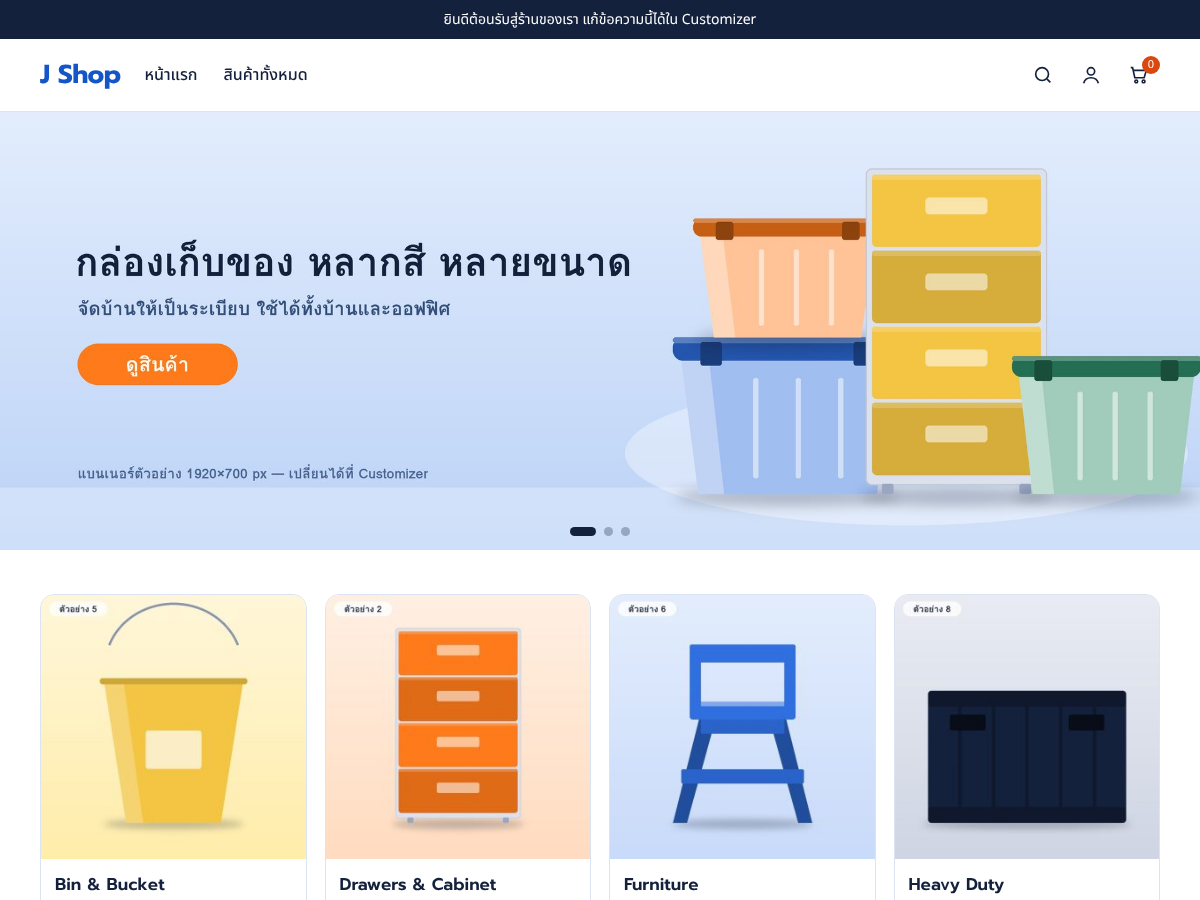
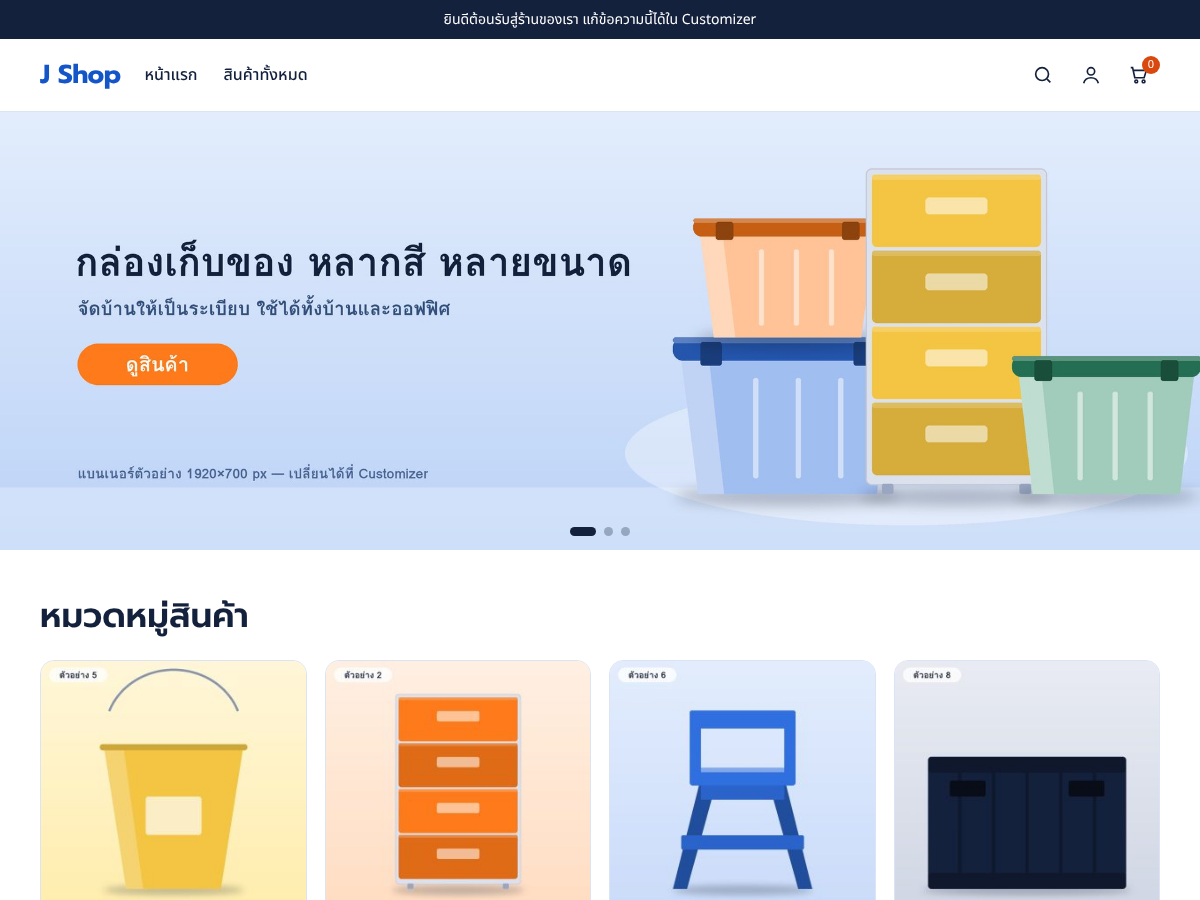
Add an editable heading above the home page category grid; version 3.0.6
Claude-Session: https://claude.ai/code/session_01AC5PZgD2Aq4ZWdHK6gSLN5

Changed region(s): [[0.0308, 0.6533, 0.9867, 1.0]]

diff --git a/style.css b/style.css
@@ -4,7 +4,7 @@ Theme URI: https://n2npay.freedev.app/themes/
 Author: n2npay
 Author URI: https://n2npay.freedev.app/
 Description: J Shop is a clean, fast storefront theme for WooCommerce shops, designed around Thai typography (Prompt and Noto Sans Thai). The home page combines a banner slider, a trust strip and a product category grid, all set up in the Customizer without code. Shoppers get a slide-out mini cart with live quantity and total updates, a free-shipping progress bar, coupons and a two-column checkout, while a shop sidebar keeps product filters close at hand. Supports HPOS and the WooCommerce Cart and Checkout blocks.
-Version: 3.0.5
+Version: 3.0.6
 Requires at least: 6.0
 Tested up to: 7.1
 Requires PHP: 7.4
@@ -82,6 +82,7 @@ a.trust-box:hover{box-shadow:0 6px 18px rgba(20,86,200,.14);transform:translateY
 
 /* Sections */
 .section{padding:44px 0}
+.cats-title{font-size:clamp(24px,3vw,34px);margin:0 0 22px}
 
 /* Product grid / card */
 .p-grid,.woocommerce ul.products{list-style:none;margin:0;padding:0;display:grid;grid-template-columns:repeat(4,1fr);gap:20px}

diff --git a/inc/customizer.php b/inc/customizer.php
@@ -131,6 +131,16 @@ add_action(
 			$text( "jshop_trust_url_$n", sprintf( /* translators: %d: box number. */ __( 'Box %d link (optional)', 'j-shop' ), $n ), '', 'jshop_trust', 'url' );
 		}
 
+		// Category grid.
+		$wp->add_section(
+			'jshop_cats',
+			array(
+				'title' => __( 'Category grid', 'j-shop' ),
+				'panel' => 'jshop',
+			)
+		);
+		$text( 'jshop_cats_title', __( 'Heading above the category grid (empty = hide)', 'j-shop' ), __( 'Shop by category', 'j-shop' ), 'jshop_cats' );
+
 		// Popup.
 		$wp->add_section(
 			'jshop_popup',

diff --git a/front-page.php b/front-page.php
@@ -94,6 +94,10 @@ if ( jshop_has_wc() ) :
 	if ( ! is_wp_error( $jshop_cats ) && $jshop_cats ) :
 		?>
 	<section class="section"><div class="wrap">
+		<?php $jshop_cats_title = jshop_mod( 'jshop_cats_title', __( 'Shop by category', 'j-shop' ) ); ?>
+		<?php if ( $jshop_cats_title ) : ?>
+			<h2 class="cats-title"><?php echo esc_html( $jshop_cats_title ); ?></h2>
+		<?php endif; ?>
 		<div class="cat-grid">
 		<?php
 		foreach ( $jshop_cats as $jshop_c ) :
